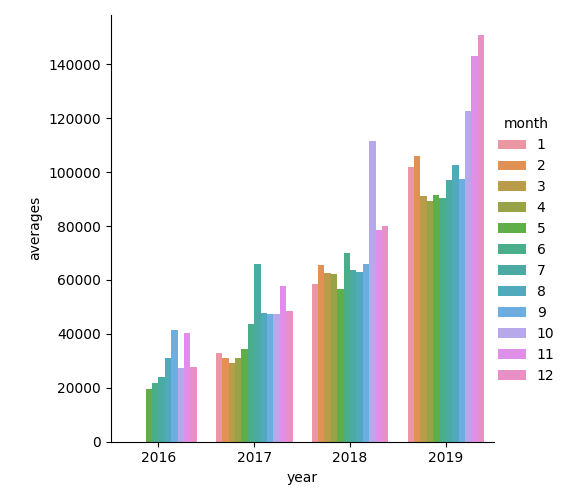
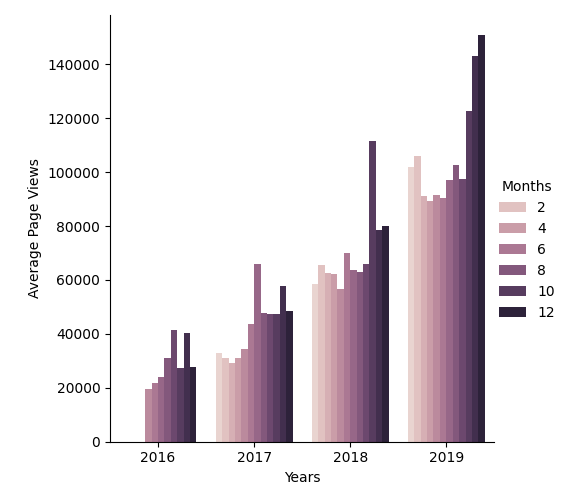
Laptop work

diff --git a/time_series_visualizer.py b/time_series_visualizer.py
@@ -39,6 +39,9 @@ def draw_bar_plot():
 
     # Draw bar plot
     plot = sns.catplot(x="year", y="averages", data=df_bar, kind="bar", hue="month")
+    plot.set_axis_labels("Years", "Average Page Views")
+    legend = plot._legend
+    legend.set_title("Months")
 
     #trying to get figure
     fig = plot.figure
@@ -58,10 +61,13 @@ def draw_box_plot():
     df_box['month'] = [d.strftime('%b') for d in df_box.date]
 
     # Draw box plots (using Seaborn)
-    plot = sns.catplot(x="year", y="value", data=df_box, kind="box")
+    fig, axes = plt.subplots(1, 2)
+
+    plot1 = sns.catplot(x="year", y="value", data=df_box, kind="box", ax=axes[0])
+    plot2 = sns.catplot(x="month", y="value", data=df_box, kind="box", ax=axes[1])
 
     #trying to get figure
-    fig = plot.figure
+    #fig = plot.figure
 
 
     # Save image and return fig (don't change this part)
